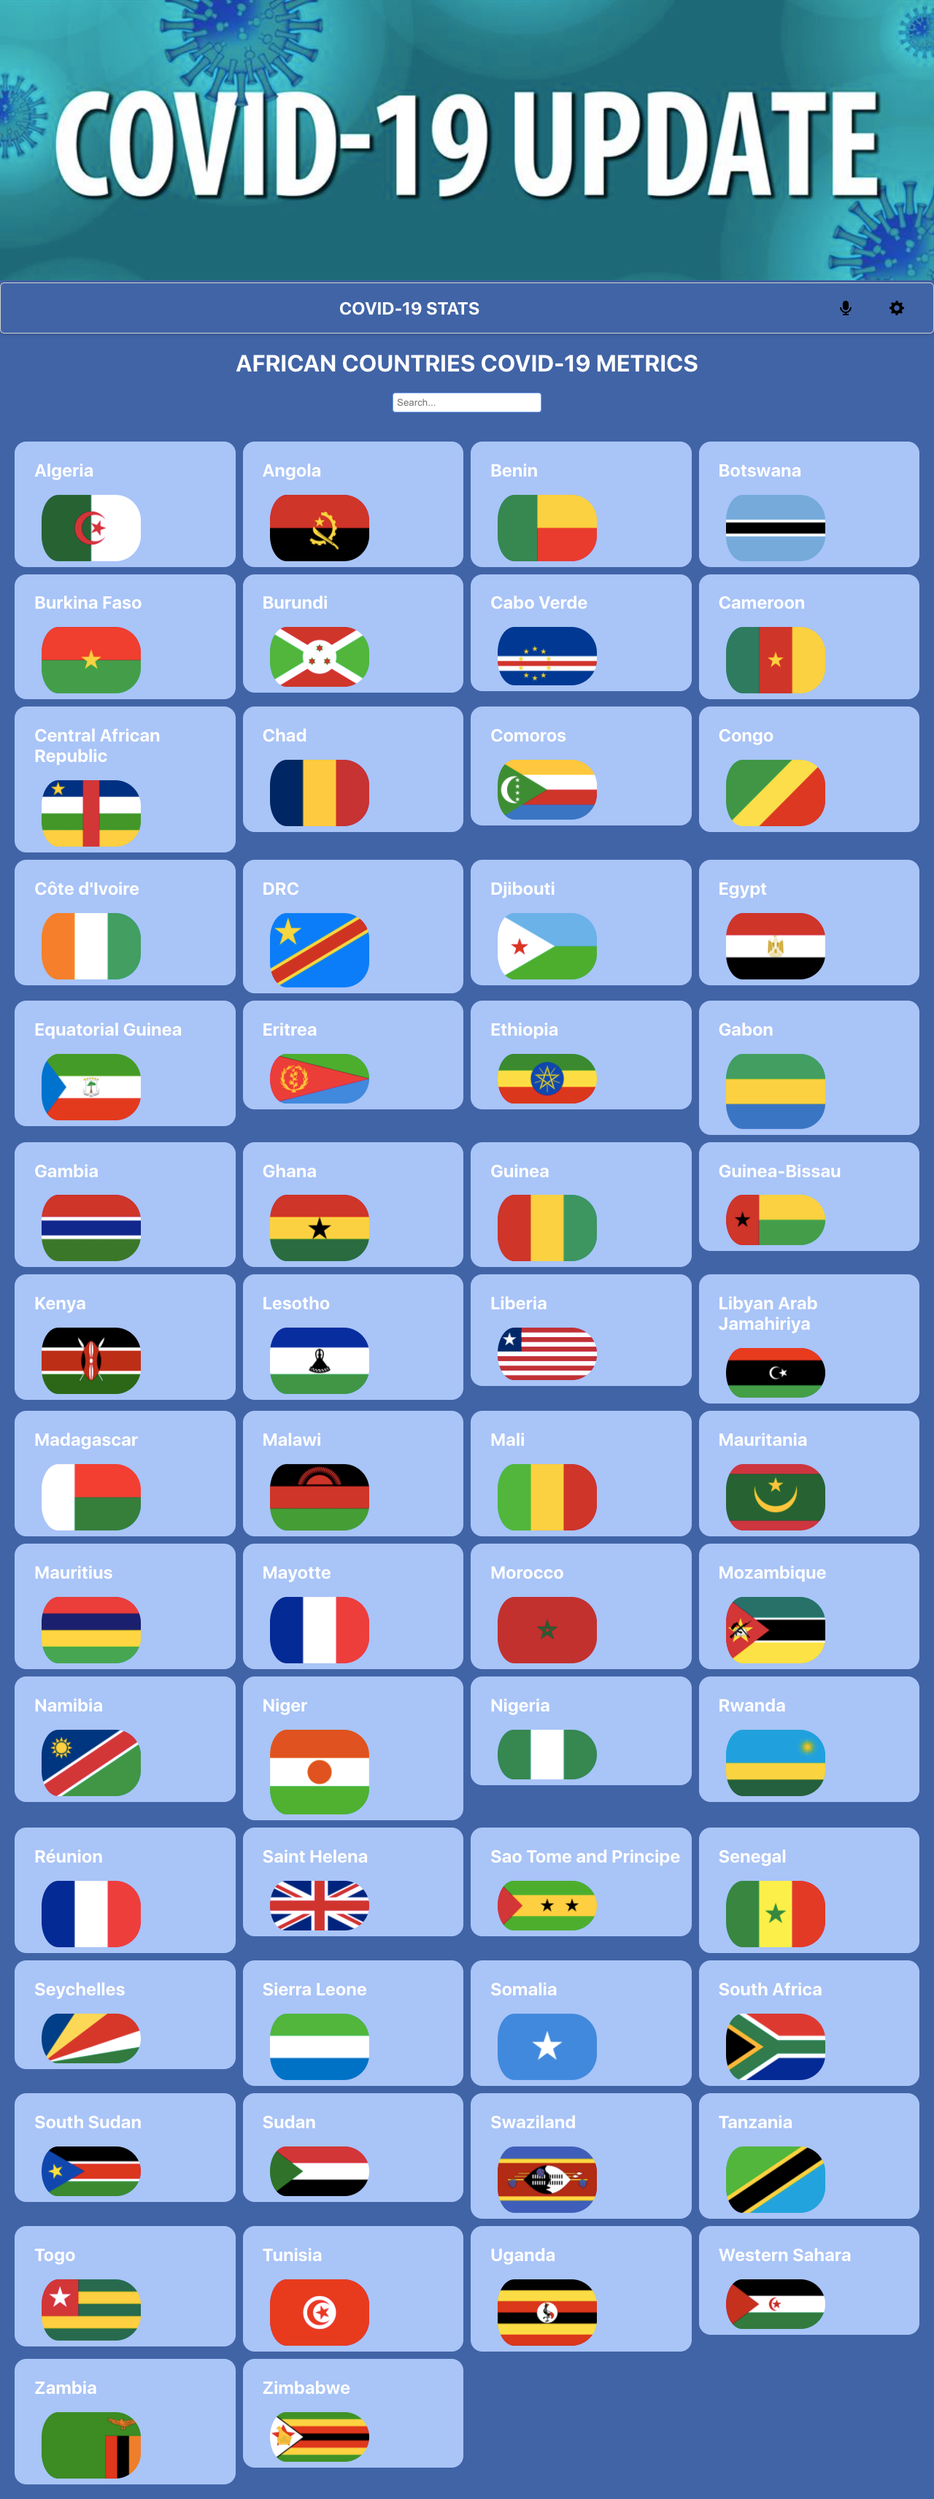
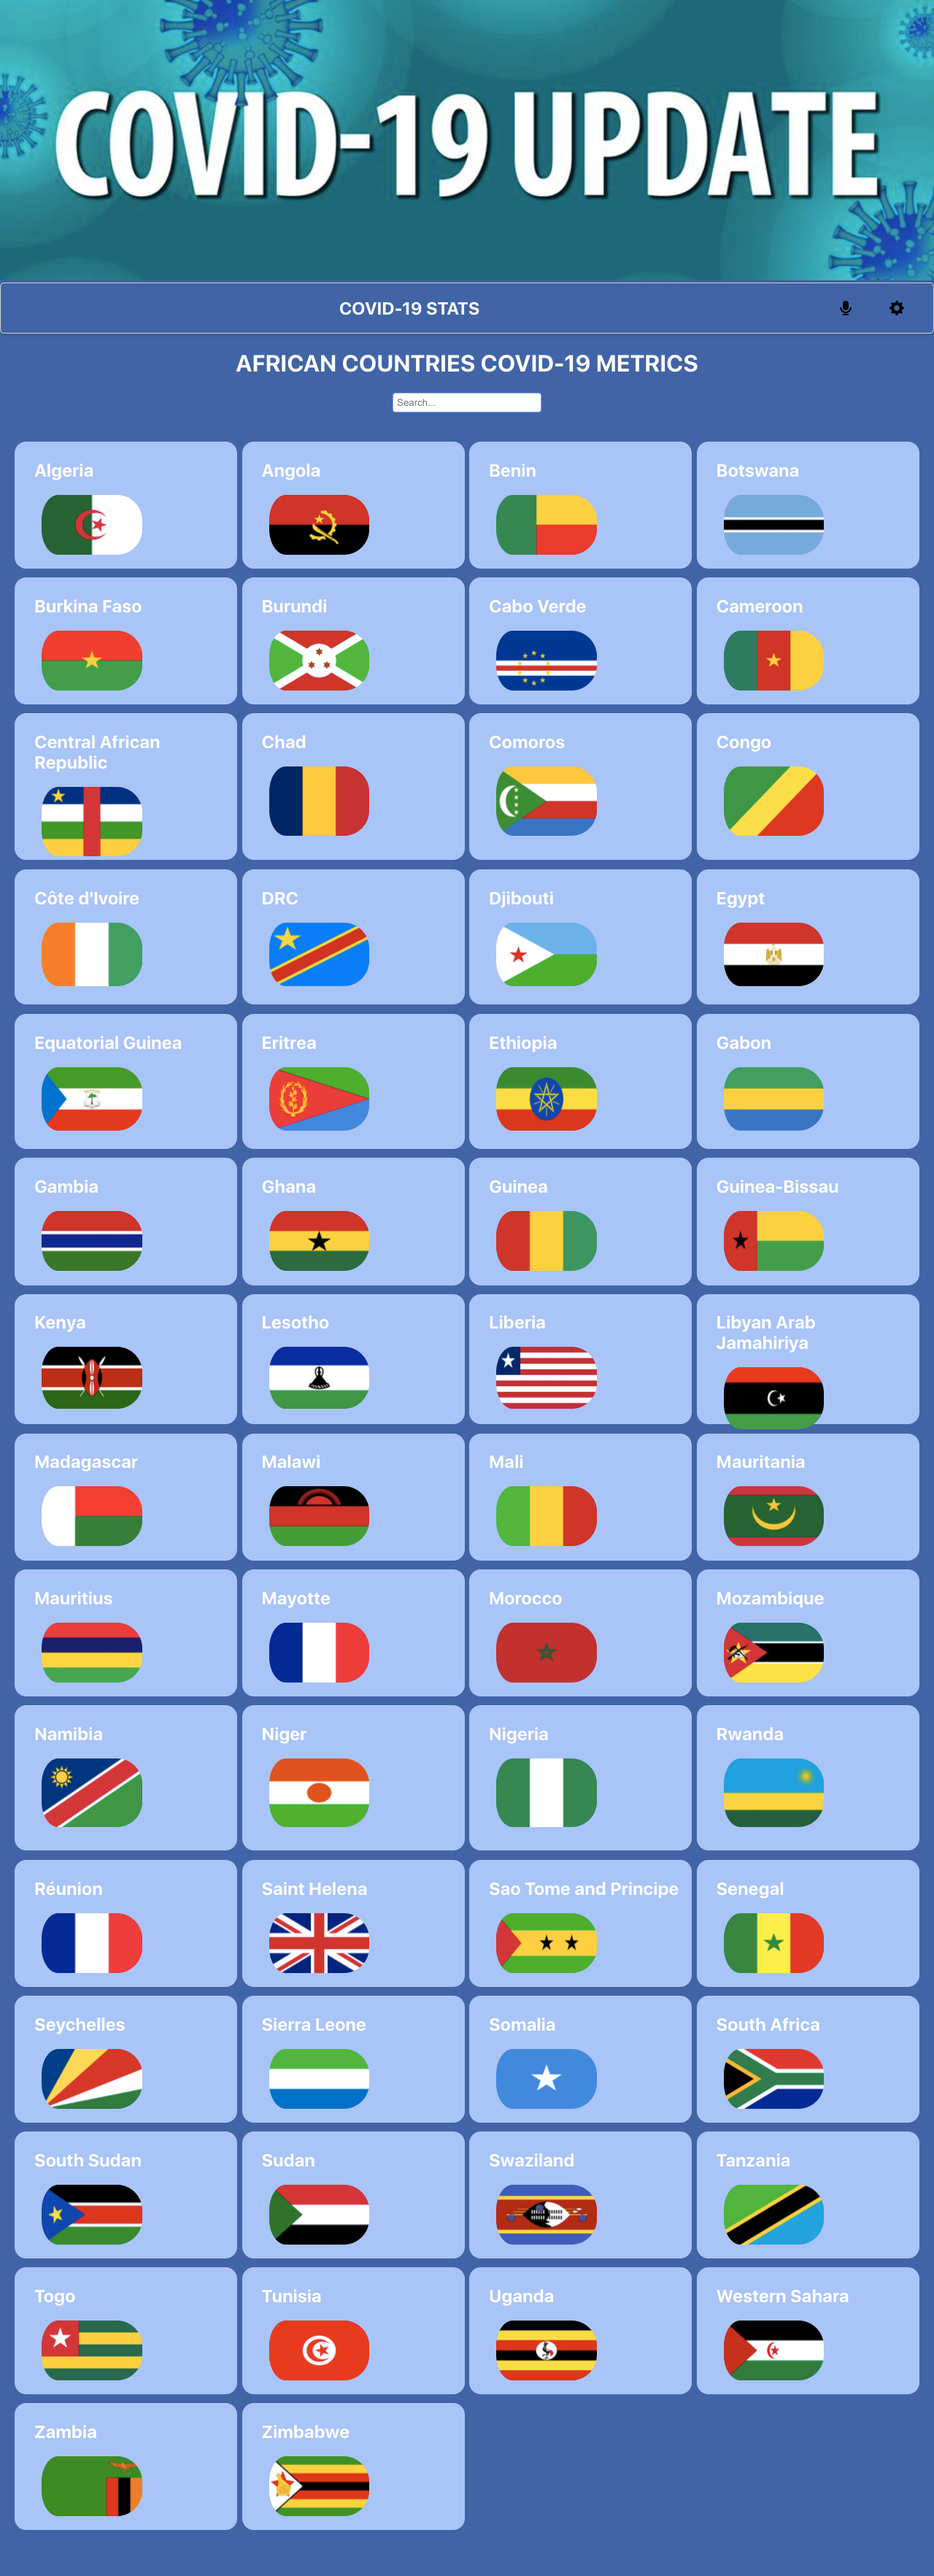
Make changes as requested by code review

diff --git a/src/index.css b/src/index.css
@@ -1,17 +1,17 @@
-@import url('https://fonts.googleapis.com/css2?family=Lato&display=swap');
+@import url("https://fonts.googleapis.com/css2?family=Lato&display=swap");
 
 body {
   font-family:
     -apple-system,
     BlinkMacSystemFont,
-    'Segoe UI',
-    'Roboto',
-    'Oxygen',
-    'Ubuntu',
-    'Cantarell',
-    'Fira Sans',
-    'Droid Sans',
-    'Helvetica Neue',
+    "Segoe UI",
+    "Roboto",
+    "Oxygen",
+    "Ubuntu",
+    "Cantarell",
+    "Fira Sans",
+    "Droid Sans",
+    "Helvetica Neue",
     sans-serif;
   -webkit-font-smoothing: antialiased;
   -moz-osx-font-smoothing: grayscale;
@@ -77,7 +77,7 @@ a {
   display: grid;
   grid-template-columns: 1fr 1fr 1fr 1fr;
   background: #4164a6;
-  gap: 10px;
+  gap: 0.5%;
   margin-top: 20px;
   padding: 20px;
 }
@@ -86,6 +86,10 @@ a {
   color: #fff;
   font-size: 25px;
   margin-left: 20px;
+}
+
+.image {
+  height: 100%;
 }
 
 .heading {
@@ -106,6 +110,7 @@ a {
   padding: 5px 15px;
   align-items: center;
   border-radius: 1rem;
+  height: 95%;
 }
 
 .data {
@@ -157,4 +162,42 @@ h2 {
 .flag {
   display: flex;
   border-radius: 50%;
+}
+
+@media screen and (max-width: 765px) {
+  .body {
+    grid-template-columns: 1fr 1fr;
+    padding: 0;
+    gap: 0.5%;
+    margin-top: 20px;
+  }
+
+  .input {
+    width: 50%;
+  }
+
+  .main-cont {
+    background-color: #a9c4f7;
+    align-items: center;
+    border-radius: 1rem;
+    height: 95%;
+  }
+
+  .img {
+    width: 50%;
+    height: 25%;
+    margin-left: 10px;
+    padding-left: 12px;
+    border-radius: 35px;
+  }
+
+  .image {
+    height: 100%;
+  }
+
+  .flag {
+    display: flex;
+    border-radius: 50%;
+    width: 95px;
+  }
 }

diff --git a/src/components/Home.js b/src/components/Home.js
@@ -20,7 +20,7 @@ function Home() {
     }
   }, []);
 
-  const Country = (e) => {
+  const filterCountry = (e) => {
     navigate(e.target.value ? `?buscar=${e.target.value}` : '');
     setSearchInput(e.target.value);
   };
@@ -32,7 +32,7 @@ function Home() {
         {' '}
       </div>
       <div className="input-box">
-        <input value={searchInput} onChange={Country} className="input" type="text" placeholder="Search..." />
+        <input value={searchInput} onChange={filterCountry} className="input" type="text" placeholder="Search..." />
       </div>
       <div className="body">
         {
